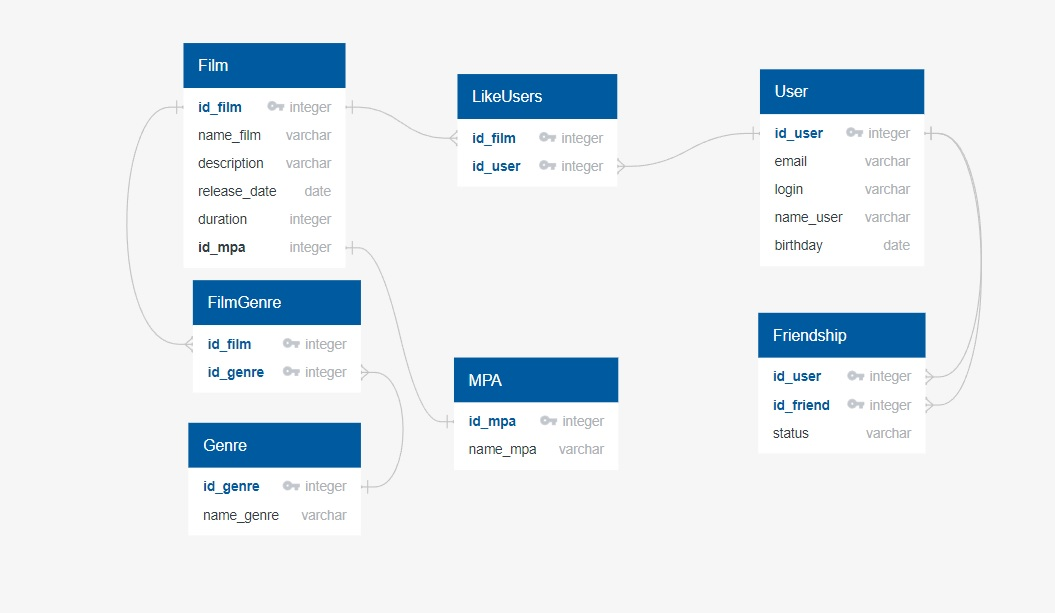
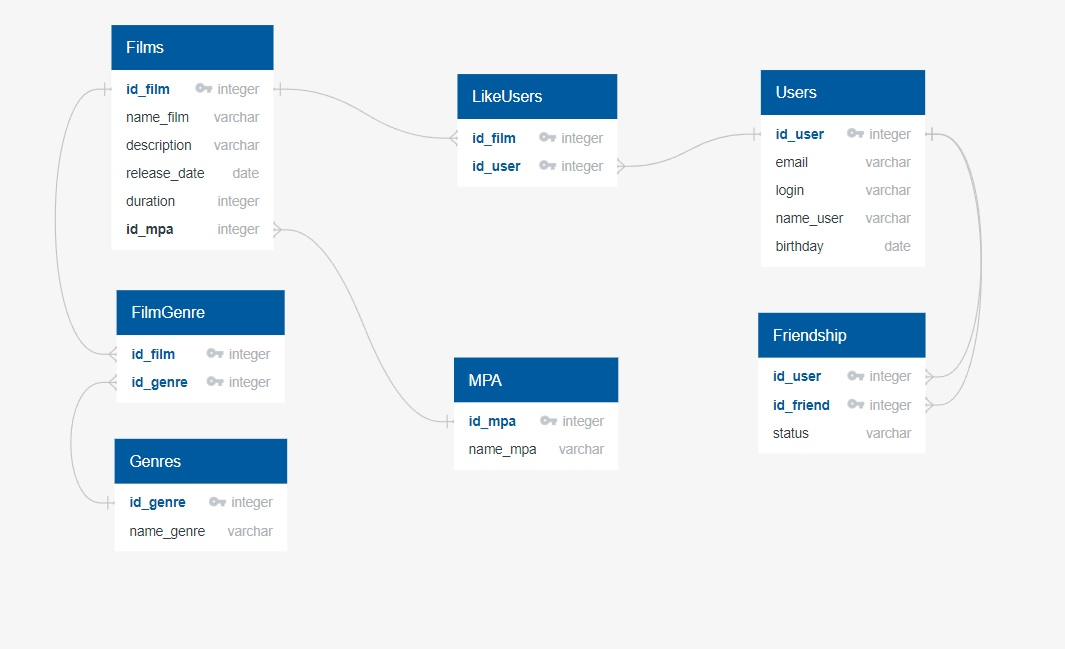
add schema

diff --git a/src/main/java/ru/yandex/practicum/filmorate/storage/UserDbStorage.java b/src/main/java/ru/yandex/practicum/filmorate/storage/UserDbStorage.java
@@ -1,0 +1,47 @@
+package ru.yandex.practicum.filmorate.storage;
+
+import ru.yandex.practicum.filmorate.model.User;
+
+import java.util.List;
+
+public class UserDbStorage implements UserStorage{
+    @Override
+    public List<User> findAll() {
+        return null;
+    }
+
+    @Override
+    public User findUserById(int id) {
+        return null;
+    }
+
+    @Override
+    public User create(User user) {
+        return null;
+    }
+
+    @Override
+    public User put(User user) {
+        return null;
+    }
+
+    @Override
+    public User addToFriends(int id, int friendId) {
+        return null;
+    }
+
+    @Override
+    public User deleteFromFriends(int id, int friendId) {
+        return null;
+    }
+
+    @Override
+    public List<User> getFriends(int id) {
+        return null;
+    }
+
+    @Override
+    public List<User> getCommonFriends(int id, int otherId) {
+        return null;
+    }
+}

diff --git a/src/main/java/ru/yandex/practicum/filmorate/storage/FilmDbStorage.java b/src/main/java/ru/yandex/practicum/filmorate/storage/FilmDbStorage.java
@@ -1,0 +1,42 @@
+package ru.yandex.practicum.filmorate.storage;
+
+import ru.yandex.practicum.filmorate.model.Film;
+
+import java.util.List;
+
+public class FilmDbStorage implements FilmStorage{
+    @Override
+    public List<Film> findAll() {
+        return null;
+    }
+
+    @Override
+    public Film findFilmById(int id) {
+        return null;
+    }
+
+    @Override
+    public Film create(Film film) {
+        return null;
+    }
+
+    @Override
+    public Film put(Film film) {
+        return null;
+    }
+
+    @Override
+    public Film putLike(int id, int userId) {
+        return null;
+    }
+
+    @Override
+    public Film deleteLike(int idFilm, int userId) {
+        return null;
+    }
+
+    @Override
+    public List<Film> getTopFilms(int count) {
+        return null;
+    }
+}

diff --git a/src/main/java/ru/yandex/practicum/filmorate/model/Genre.java b/src/main/java/ru/yandex/practicum/filmorate/model/Genre.java
@@ -1,0 +1,17 @@
+package ru.yandex.practicum.filmorate.model;
+
+import lombok.AllArgsConstructor;
+import lombok.Data;
+import lombok.NoArgsConstructor;
+
+import javax.validation.constraints.NotNull;
+
+@Data
+@NoArgsConstructor
+@AllArgsConstructor
+public class Genre {
+    @NotNull
+    private int id;
+    private String nameGenre;
+
+}

diff --git a/src/main/java/ru/yandex/practicum/filmorate/model/Film.java b/src/main/java/ru/yandex/practicum/filmorate/model/Film.java
@@ -27,6 +27,9 @@ public class Film {
     private LocalDate releaseDate;
     @Positive
     private int duration;
+    private MPA mpa;
+    private Set<Genre> genres;
+
     private Set<Integer> idLikeUsers = new HashSet<>();
 
     public static int getSizeIdLikesUsers(Film film) {

diff --git a/src/main/java/ru/yandex/practicum/filmorate/model/MPA.java b/src/main/java/ru/yandex/practicum/filmorate/model/MPA.java
@@ -1,0 +1,13 @@
+package ru.yandex.practicum.filmorate.model;
+
+import lombok.AllArgsConstructor;
+import lombok.Data;
+import lombok.NoArgsConstructor;
+
+@Data
+@NoArgsConstructor
+@AllArgsConstructor
+public class MPA {
+    private int id;
+    private String nameMPA;
+}
